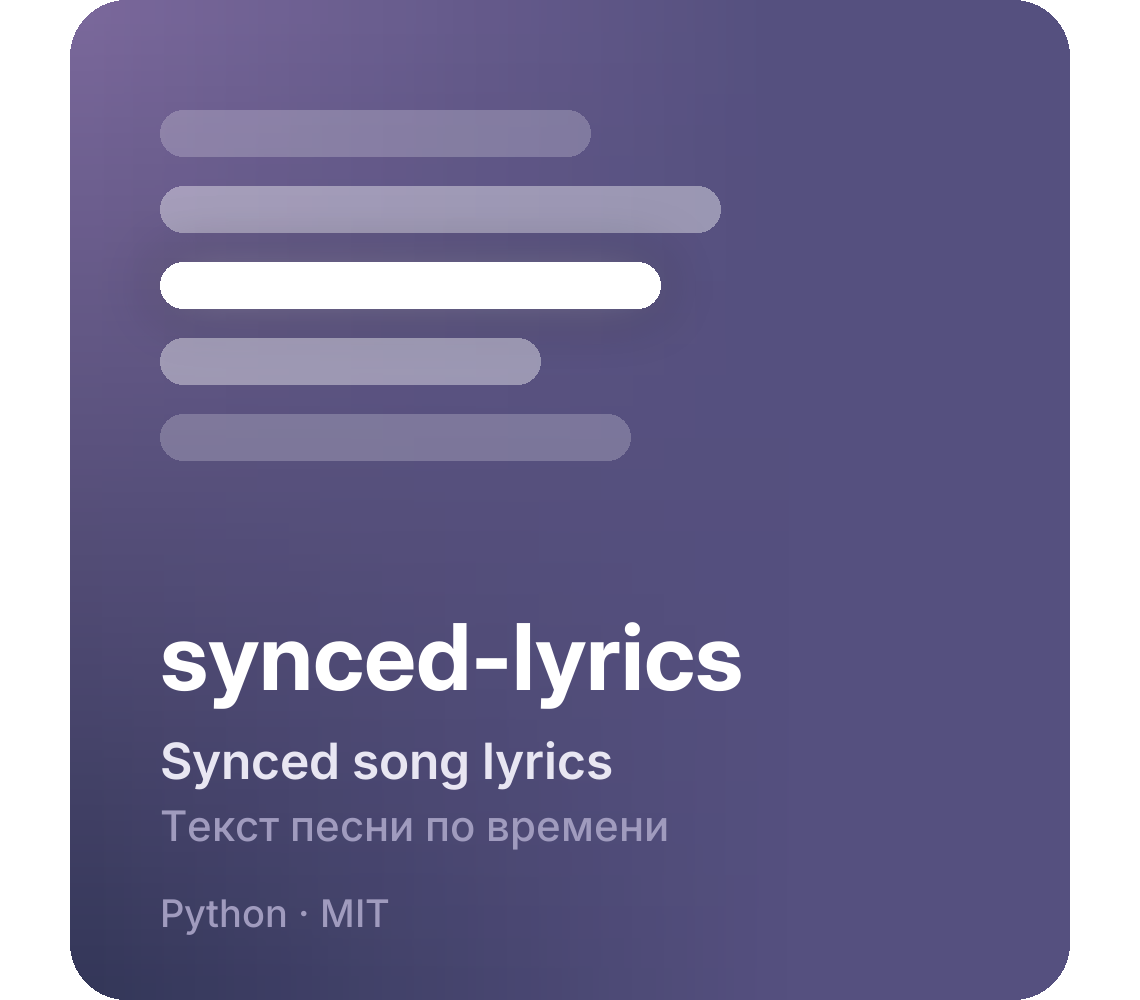
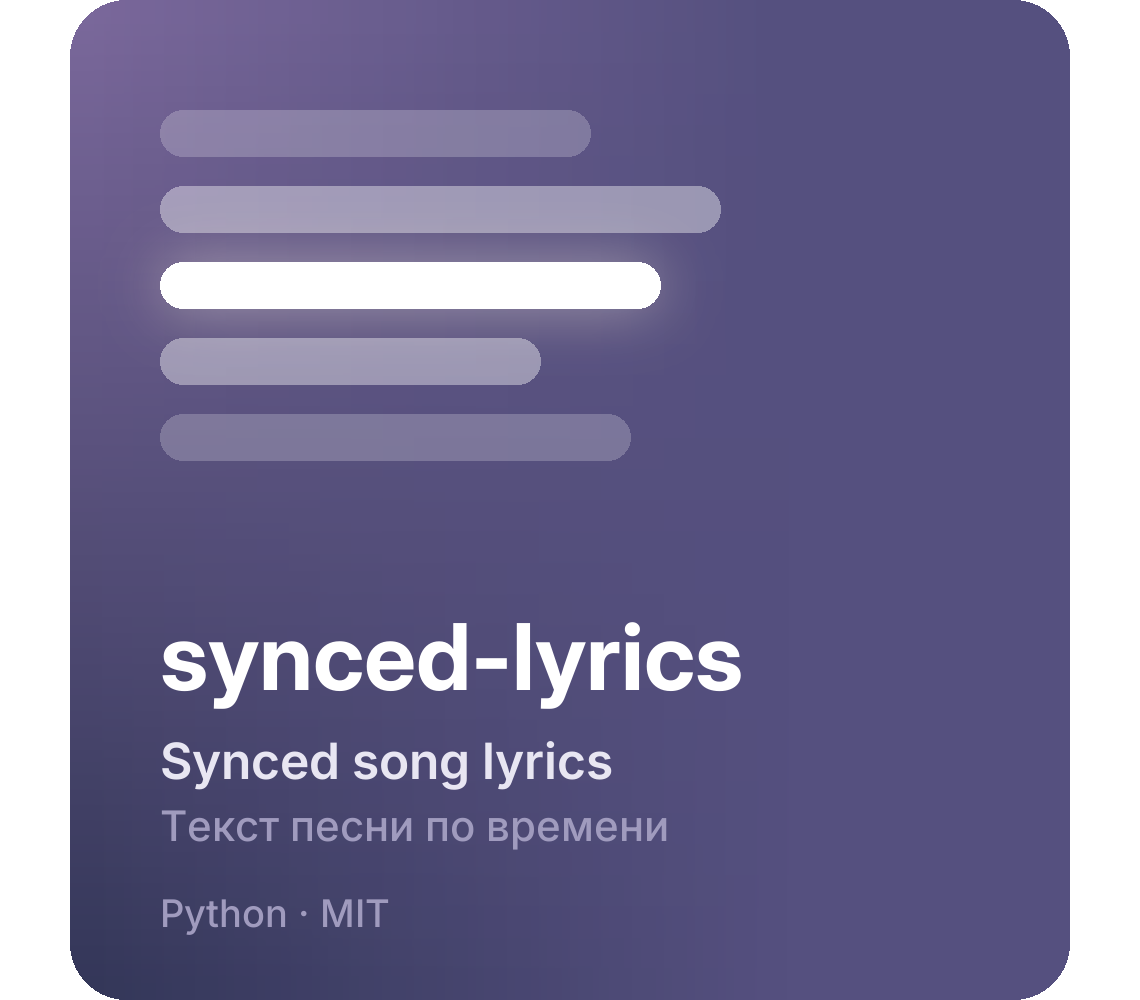
make_lib_cards.py: шапки для README библиотек, чистое свечение
- banner(): широкая шапка 2560×760 для README каждой библиотеки
  (значок, название, подписи, pip install) — лежит в docs/banner.png библиотек
- glow(): прозрачный фон цвета свечения, без тёмного ореола от размытия
- карточки библиотек перерисованы

Changed region(s): [[0.1535, 0.31, 0.5526, 0.341], [0.1535, 0.248, 0.5526, 0.279]]

diff --git a/design/make_lib_cards.py b/design/make_lib_cards.py
@@ -50,7 +50,8 @@ def rounded(img, r):
 
 def glow(img, draw_fn, blur, strength=1.0):
     """Мягкое свечение под значком."""
-    layer = Image.new('RGBA', img.size, (0, 0, 0, 0))
+    # прозрачный фон того же тёплого цвета, что свечение: иначе размытие тянет к краям чёрный
+    layer = Image.new('RGBA', img.size, (255, 236, 200, 0))
     draw_fn(ImageDraw.Draw(layer))
     layer = layer.filter(ImageFilter.GaussianBlur(blur))
     if strength != 1.0:
@@ -59,7 +60,8 @@ def glow(img, draw_fn, blur, strength=1.0):
     return Image.alpha_composite(img, layer)
 
 
-X0 = 90  # левый отступ
+X0 = 90  # левый отступ значка
+Y0 = 0   # сдвиг значка вниз (для шапки рисуем с запасом, чтобы свечение не обрезалось)
 
 
 def over(img, fn):
@@ -73,7 +75,7 @@ def icon_lyrics(img):
     """Строки текста песни, горит одна, как на баннере."""
     rows = [(430, 0.22), (560, 0.4), (500, 1.0), (380, 0.4), (470, 0.22)]
     for i, (w, a) in enumerate(rows):
-        y = 110 + i * 76
+        y = Y0 + 110 + i * 76
         box = (X0, y, X0 + w, y + 46)
         if a == 1.0:
             img = glow(img, lambda d, box=box: d.rounded_rectangle(box, 23, fill=(255, 255, 255, 110)), 28)
@@ -83,7 +85,7 @@ def icon_lyrics(img):
 
 def icon_lamp(img):
     """Лампочка со свечением и волны сигнала справа."""
-    cx, cy, r = X0 + 130, 260, 115
+    cx, cy, r = X0 + 130, Y0 + 260, 115
     img = glow(img, lambda d: d.ellipse((cx - r - 70, cy - r - 70, cx + r + 70, cy + r + 70), fill=(255, 236, 200, 150)), 60)
 
     def draw(d):
@@ -99,7 +101,7 @@ def icon_lamp(img):
 
 def icon_house(img):
     """Домик с горящим окном и выключатель."""
-    x, y, w, h = X0 + 20, 250, 300, 220
+    x, y, w, h = X0 + 20, Y0 + 250, 300, 220
     wx, wy = x + w / 2, y + h / 2
     img = glow(img, lambda d: d.ellipse((wx - 115, wy - 115, wx + 115, wy + 115), fill=(255, 236, 200, 170)), 45)
 
@@ -141,8 +143,41 @@ def card(name, en, ru, icon, fn):
     out.save(os.path.join(OUT, fn), optimize=True)
 
 
+def banner(name, en, ru, pip, icon, fn):
+    """Широкая шапка для README библиотеки: значок слева, название и подписи справа."""
+    BW, BH = 2560, 760
+    img = lav_gradient(BW, BH).convert('RGBA')
+    # значок рисуем тем же кодом, что на карточке, на прозрачном холсте, и переносим крупнее
+    global X0, Y0
+    pad = 300
+    X0, Y0 = X0 + pad, Y0 + pad
+    try:
+        layer = icon(Image.new('RGBA', (W + 2 * pad, H + 2 * pad), (0, 0, 0, 0)))
+    finally:
+        X0, Y0 = X0 - pad, Y0 - pad
+    box = layer.getchannel('A').point(lambda v: 255 if v > 40 else 0).getbbox()
+    k = 470 / max(1, box[3] - box[1])
+    big = layer.resize((round(layer.width * k), round(layer.height * k)), Image.LANCZOS)
+    cx, cy = (box[0] + box[2]) / 2 * k, (box[1] + box[3]) / 2 * k
+    img.alpha_composite(big, (round(560 - cx), round(BH / 2 - cy)))
+    d = ImageDraw.Draw(img)
+    tx = 1060
+    f_name = fit(name, 150, 700, BW - tx - 160)
+    d.text((tx, 170), name, font=f_name, fill=WHITE)
+    d.text((tx, 380), en, font=font(68, 600), fill=SOFT)
+    d.text((tx, 470), ru, font=font(56, 500), fill=MUTED)
+    d.text((tx, 580), 'pip install ' + pip, font=font(48, 500), fill=MUTED)
+    rounded(img.convert('RGB'), 44).save(os.path.join(OUT, fn), optimize=True)
+
+
+LIBS = [
+    ('synced-lyrics', 'Synced song lyrics', 'Текст песни по времени', 'lrclib-synced', icon_lyrics),
+    ('yeelight-lan', 'Yeelight over LAN', 'Лампы Yeelight по сети', 'yeelight-lan', icon_lamp),
+    ('yandex-smarthome', 'Alice smart home', 'Умный дом Яндекса', 'yandex-smarthome', icon_house),
+]
+
 os.makedirs(OUT, exist_ok=True)
-card('synced-lyrics', 'Synced song lyrics', 'Текст песни по времени', icon_lyrics, 'lib-synced-lyrics.png')
-card('yeelight-lan', 'Yeelight over LAN', 'Лампы Yeelight по сети', icon_lamp, 'lib-yeelight-lan.png')
-card('yandex-smarthome', 'Alice smart home', 'Умный дом Яндекса', icon_house, 'lib-yandex-smarthome.png')
+for name, en, ru, pip, icon in LIBS:
+    card(name, en, ru, icon, f'lib-{name}.png')
+    banner(name, en, ru, pip, icon, f'lib-{name}-banner.png')
 print('ok')
